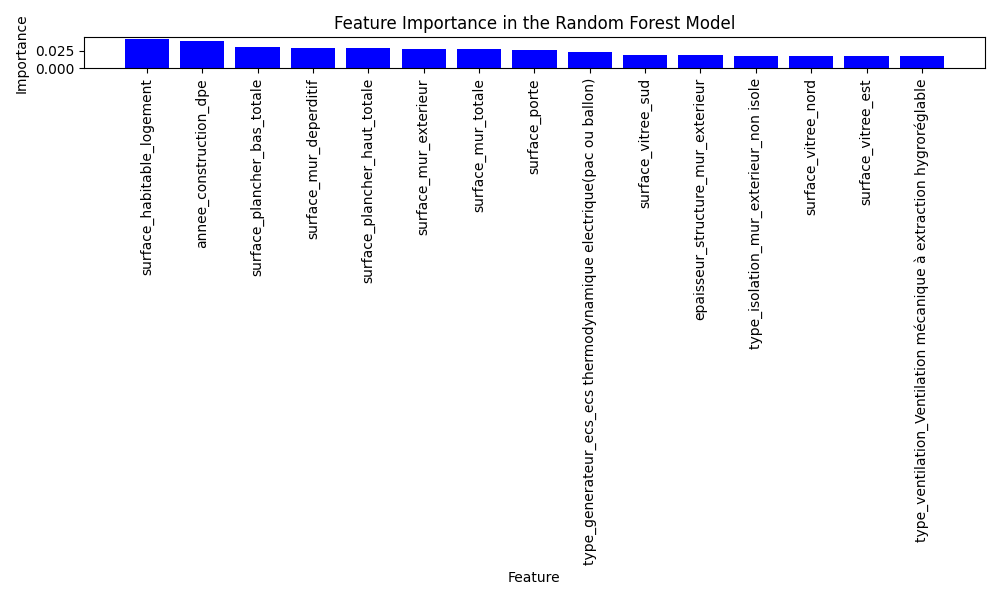
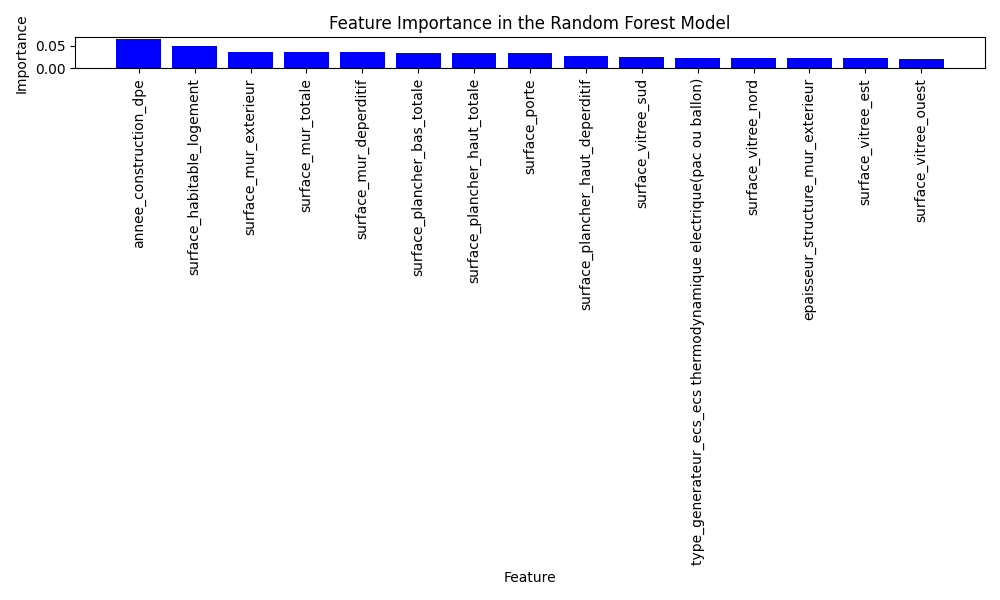
clean base

diff --git a/src/app.py b/src/app.py
@@ -1,15 +1,13 @@
+import time
+
+from sklearn.preprocessing import StandardScaler
+
+from data.clean import clean_df
 from data.preprocessing import CustomProcessing
 from models.train_model import Models
 from models.selection import select_features
 from visualization.importance_feature_graph import plot_feature_importance
-
-from data.clean import clean_df
-from sklearn.preprocessing import StandardScaler
-import pandas as pd
-import time
-import os
-import numpy as np
-import xlwings as xw
+from data.make_dataset import *
 
 def app():
     # Calculate the start time
@@ -19,23 +17,23 @@ def app():
     properties = clean_df("src/data/database/df_clean.csv")
     
     # Import customer desc
-    # new_variable = importation_excel("src/formulaire.xlsm", "Source")
-
-    # Instance of the processing framework and data training on properties for encoding
-    cpp_p_selection = CustomProcessing(properties)
-    numeric_columns = properties.select_dtypes(include=['number']).columns
-
+    customer = importation_excel("src/formulaire.xlsm", "Source")
+    
     # Instance StandardScaler for the models
     scaler = StandardScaler()
-
+    numerous = properties.select_dtypes(include=['number']).columns
     # Apply scaler to numeric columns
-    properties[numeric_columns] = scaler.fit_transform(properties[numeric_columns])
+    properties[numerous] = scaler.fit_transform(properties[numerous])
+    # customer[customer.select_dtypes(include=['number']).columns] = scaler.fit_transform(customer.select_dtypes(include=['number']).columns)
+    
+    # Instance of the processing framework and data training on properties for encoding
+    cpp_p_selection = CustomProcessing(properties)
     properties = cpp_p_selection.fit_transform(properties)
 
     # Selection of number of features, important variables, encoding must have been done before
     nb_features = 15
     columns_important, importance = select_features(properties, nb_features)
-
+    print(columns_important)
     # Plot of features importances
     plot_feature_importance(importance, nb_features)
 
@@ -60,50 +58,21 @@ def app():
     #fit and transform training dataset and customer dataset
     properties_selected = cpp_kneigh.fit_transform(properties_selected)
     customer = cpp_kneigh.transform(customer)
-    # Create the graph of importances in the selection model
-
     # Instance and training of k_neighbors on the encoded data
     knn_model = Models(properties_selected, customer)
     
     # get k optimal
     best_k = knn_model.metric_knn()
+    
+    # Make the K Nearest Neighbors
     individual,proba = knn_model.k_neighbors(best_k)
-
+    
     # Restoration of a human-readable dataframe
     # Predicted value of k_neighbors
     cpp_kneigh.inverse_transform(individual)
+
+    export_excel(proba,"src/formulaire.xlsm", "Source")
     
-    file_path = os.path.join('src/data/database/', 'prediction.txt')
-
-    # Open the file in write mode (w), if it does not exist, it will be created
-    with open(file_path, 'w') as text_file:
-        # Write the string to the file
-        text_file.write(str(proba))
-
-    try:
-
-        app = xw.App(visible=True)
-        workbook = app.books.open("src/formulaire.xlsm")
-
-        # Sélectionner la feuille source
-        feuille_source = workbook.sheets['Source']
-
-        # Ajouter les classes à partir de la cellule A5
-        for index, donnee in enumerate(proba):
-            classe = donnee['classe']
-            feuille_source.range((5, index + 1)).value = classe
-
-        # Ajouter les probabilités à partir de la cellule A6
-        for index, donnee in enumerate(proba):
-            probabilite = donnee['probabilite']
-            feuille_source.range((6, index + 1)).value = probabilite
-        # Save the workbook
-        workbook.save('src/formulaire.xlsm')
-        print("Workbook saved successfully.")
-
-    except Exception as e:
-        print(f"An error occurred: {e}")
-
     # Calculate the total execution time
     end = time.time()
     print("Execution time: ", round(end - start, 2), "seconds") 

diff --git a/src/models/train_model.py b/src/models/train_model.py
@@ -6,7 +6,6 @@ import numpy as np
 from sklearn.neighbors import KNeighborsClassifier
 from sklearn.metrics import accuracy_score
 from sklearn.model_selection import train_test_split
-
 class Models:
 
     """
@@ -53,7 +52,6 @@ class Models:
 
         # Training df
         self.df = df
-        self.df = self.df.sample(frac=1, random_state=42) 
 
         # Test df
         self.df_customer = df_customer
@@ -88,22 +86,25 @@ class Models:
         ```
         """
         # Split df into train and test frame
-        x_train, x_test, y_train, y_test = train_test_split(self.independent_variable,self.dependent_variable, test_size=0.3, random_state=42)
-        roc_auc_scores = []
-        # Test between 50 value for k 
-        for k in range(1, 50):  # Vous pouvez ajuster la plage selon vos besoins
+        x_train, x_test, y_train, y_test = train_test_split(self.independent_variable, self.dependent_variable, test_size=0.2)
+        accuracy_scores = []
+
+        # Test entre 50 valeurs pour k 
+        for k in range(5, 55):  
             knn = KNeighborsClassifier(n_neighbors=k)
             knn.fit(x_train, y_train)
-            y_prob = knn.predict(x_test)  # Probabilité de la classe positive
-            roc_auc = accuracy_score(y_test, y_prob)
-            # store accuracy_score
-            roc_auc_scores.append(round(roc_auc, 2))
-        
-        # get k optimal
-        best_k_index = roc_auc_scores.index(max(roc_auc_scores))
-        best_k = range(1, 50)[best_k_index]
-        
+            y_pred = knn.predict(x_test)
+            # Calculer la matrice de confusion
+            cm = accuracy_score(y_test, y_pred)
+            # stocker la matrice de confusion
+            accuracy_scores.append(cm)
+        best_k_index = np.argmax(accuracy_scores)
+
+        # Obtenir le meilleur k
+        best_k = range(5, 55)[best_k_index]
+
         return best_k
+
     
     def k_neighbors(self, best_k):
         """
@@ -133,6 +134,7 @@ class Models:
 
         # Prediction on the test individual data
         prediction = neigh.predict(self.customer_features)
+        # score = neigh.score()
         proba = neigh.predict_proba(self.customer_features)
         
         # make a function to get prediction for 1 class and a function to predict for 2 class

diff --git a/src/data/clean.py b/src/data/clean.py
@@ -1,4 +1,5 @@
 import pandas as pd
+import numpy as np
 from  .filtering_function import *
 
 def clean_df(path):
@@ -159,19 +160,33 @@ def clean_df(path):
             df = list_to_int(df, i)
 
     #replace na by "inconnu" if columns is object, else replace na by mean of the column
-    df = conditional_fill_na(df)
-
+    
+    
     for colonne in df.columns :
         df=delete_na(df, colonne)
         
     #convert if its possible object columns to integer
     df = convert_object_columns_to_integers(df)
     
-    #delete na
+    # Delete na
     for colonne in df.columns :
         df=delete_na(df, colonne)
         
-    # duplicate drop
+    # Duplicate drop
     df.drop_duplicates(inplace = True)
-    # df.to_csv("src/data/database/df_clean.csv", index=False)
-    return df
+    
+    # Replace unknown to nan
+    df.replace("unknown",np.nan,inplace= True)
+    # Drop columns with more than 500 na
+    df = df.dropna(axis=1, thresh=len(df) - 500)
+    
+    # Replace 0 in annee_construction_dpe to nan
+    df["annee_construction_dpe"].replace(0,np.nan,inplace=True)
+    
+    # Drop na in whole dataset
+    df.dropna(inplace= True)
+    
+    # Balance the dataframe
+    df_balanced = df.groupby(df.iloc[:,0]).apply(lambda x: x.sample(200)).reset_index(drop=True)
+    
+    return df_balanced

diff --git a/src/data/filtering_function.py b/src/data/filtering_function.py
@@ -103,7 +103,8 @@ def conditional_fill_na(df):
         1   2.0    b   5.0
         2   1.5    inconnu   4.5
     """
-    assert isinstance(df, pd.DataFrame), "Input must be a DataFrame"
+    if not isinstance(df, pd.DataFrame):
+        raise TypeError("Input must be a DataFrame")
 
     for column in df.columns:
         if df[column].dtype == "object":
@@ -111,7 +112,7 @@ def conditional_fill_na(df):
             df[column].fillna("unknown", inplace=True)
         else:
             # For numeric columns, fill NaN with the mean of the column
-            df[column].fillna(df[column].mean(), inplace=True)
+            df[column].fillna(df[column].median(), inplace=True)
 
     return df
 
@@ -149,8 +150,11 @@ def convert_object_columns_to_integers(df):
         1  NaN    b
         2    3    c
     """
-    assert isinstance(df, pd.DataFrame), "Input must be a DataFrame"
-    assert df.notnull().all().all(), "No NoneType Allowed, use the drop_na_rows function"
+    if not isinstance(df, pd.DataFrame):
+        raise TypeError("Input must be a DataFrame")
+    
+    if not df.notnull().all().all():
+        raise ValueError("No NoneType Allowed, use the drop_na_rows function")
 
     # Select object columns (ambiguous)
     object_columns = df.select_dtypes(include=['object']).columns

diff --git a/src/data/make_dataset.py b/src/data/make_dataset.py
@@ -1,6 +1,7 @@
 import os
 import pandas as pd
 from openpyxl import load_workbook
+import xlwings as xw
 from .filtering_function import convert_object_columns_to_integers
 
 def importation_excel(excel_file_path, sheet_name):
@@ -50,3 +51,27 @@ def importation_excel(excel_file_path, sheet_name):
     # Return the created DataFrame
     return df
 
+def export_excel(proba,excel_file_path,sheets):
+    try:
+
+        app = xw.App(visible=True)
+        workbook = app.books.open("src/formulaire.xlsm")
+
+        # Sélectionner la feuille source
+        feuille_source = workbook.sheets['Source']
+
+        # Ajouter les classes à partir de la cellule A5
+        for index, donnee in enumerate(proba):
+            classe = donnee['classe']
+            feuille_source.range((5, index + 1)).value = classe
+
+        # Ajouter les probabilités à partir de la cellule A6
+        for index, donnee in enumerate(proba):
+            probabilite = donnee['probabilite']
+            feuille_source.range((6, index + 1)).value = probabilite
+        # Save the workbook
+        workbook.save('src/formulaire.xlsm')
+        print("Workbook saved successfully.")
+
+    except Exception as e:
+        print(f"An error occurred: {e}")
